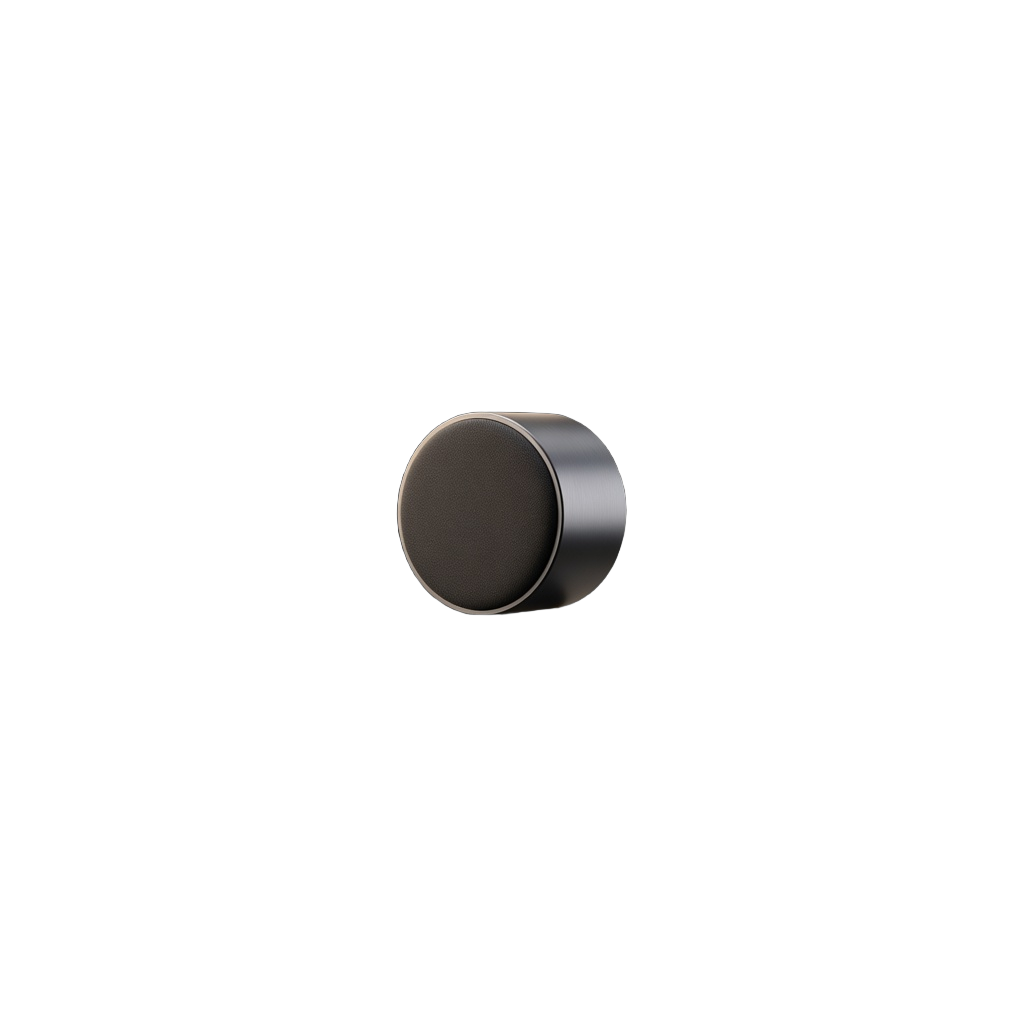
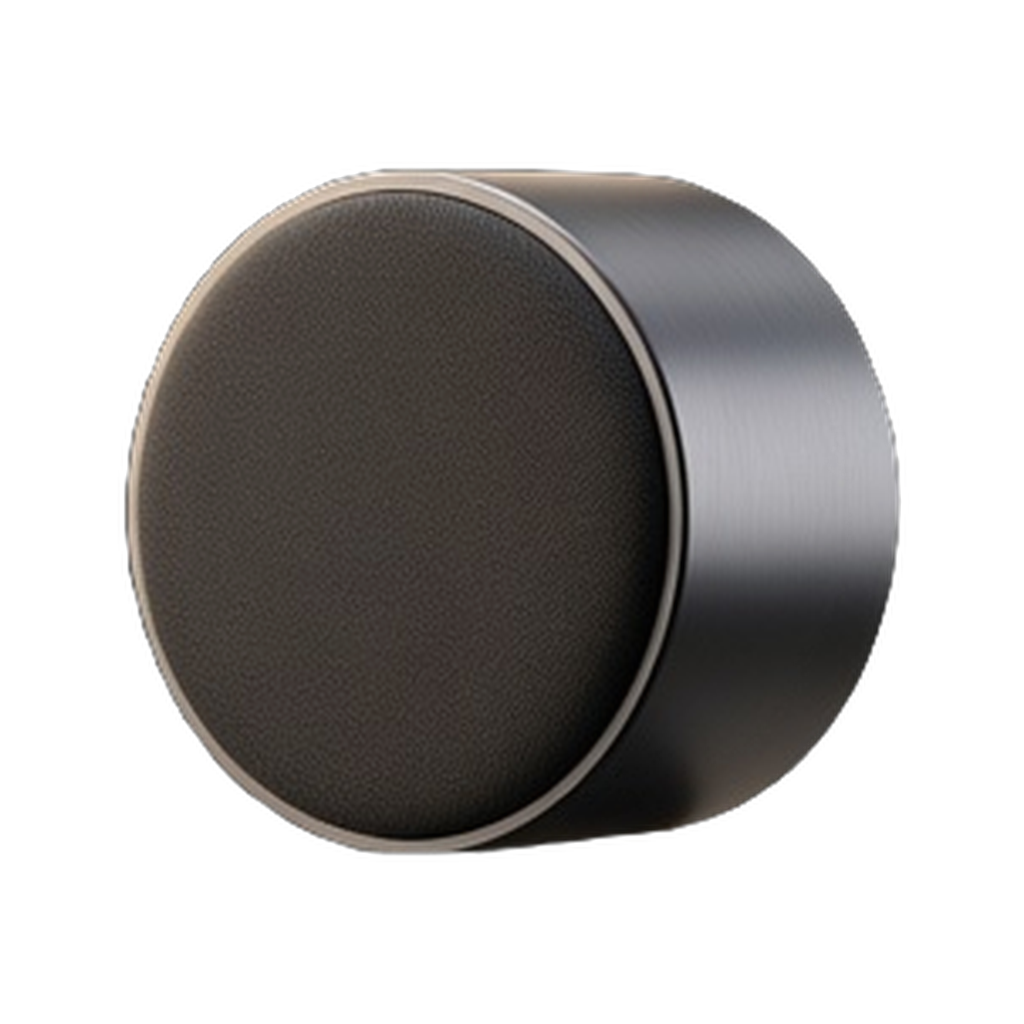
Enlarge archive focus and deepen Colton-style lens bend
Scale the centered saved item much larger, strengthen fisheye edge distortion, and trim product cutouts so the refracting scroll reads closer to the Bencho reference.

diff --git a/GPT-App Ver/src/screens/Archive.tsx b/GPT-App Ver/src/screens/Archive.tsx
@@ -21,8 +21,10 @@ import { ArchiveObject } from '../components/ArchiveObject';
 import { ItemArtwork } from '../components/ItemArtwork';
 import { Icon, Sheet, T, tap } from '../components/ui';
 
-const step = 140,
-  tile = 112;
+/** Colton lens-scroll approximation: tall center focus, fisheye bend at edges. */
+const step = 200;
+const tile = 128;
+const focusScale = 2.72;
 export default function Archive() {
   const { state, dispatch, openNudge } = useStore();
   const insets = useSafeAreaInsets();
@@ -39,6 +41,8 @@ export default function Archive() {
   const [reduce, setReduce] = useState(false);
   const scroll = useRef<ScrollView>(null);
   const [offset] = useState(() => new Animated.Value(0));
+  const labelClearance = Math.min(118, Math.max(72, (tile * focusScale) / 2 + 18));
+  const sideWidth = Math.max(64, Math.min(96, width / 2 - labelClearance - 8));
   useEffect(() => {
     let active = true;
     AccessibilityInfo.isReduceMotionEnabled().then((v) => {
@@ -118,12 +122,13 @@ export default function Archive() {
               })}
             >
               {items.map((item, index) => {
+                const half = Math.max(step * 1.15, viewport * 0.48);
                 const range = [
-                  index * step - Math.max(step + 1, viewport / 2),
-                  index * step - step,
+                  index * step - half,
+                  index * step - step * 0.55,
                   index * step,
-                  index * step + step,
-                  index * step + Math.max(step + 1, viewport / 2),
+                  index * step + step * 0.55,
+                  index * step + half,
                 ];
                 const interpolate = (outputRange: number[]) =>
                   offset.interpolate({ inputRange: range, outputRange, extrapolate: 'clamp' });
@@ -132,26 +137,32 @@ export default function Archive() {
                     <Animated.View
                       testID={`archive-card-${item.id}`}
                       style={{
-                        opacity: reduce ? 1 : interpolate([0.45, 0.9, 1, 0.9, 0.45]),
+                        zIndex: selected === index ? 4 : 1,
+                        opacity: reduce ? 1 : interpolate([0.22, 0.72, 1, 0.72, 0.22]),
                         transform: reduce
                           ? []
                           : [
-                              { perspective: 450 },
+                              { perspective: 980 },
                               {
                                 rotateX: offset.interpolate({
                                   inputRange: range,
-                                  outputRange: ['-48deg', '-9deg', '0deg', '9deg', '48deg'],
+                                  outputRange: ['-72deg', '-28deg', '0deg', '28deg', '72deg'],
                                   extrapolate: 'clamp',
                                 }),
                               },
-                              { scaleX: interpolate([1.65, 1, 1.45, 1, 1.65]) },
-                              { scaleY: interpolate([1.1, 0.96, 1.45, 0.96, 1.1]) },
+                              // Fisheye: edges stretch wide + squash tall; center is much larger + flat.
+                              {
+                                scaleX: interpolate([2.55, 0.95, focusScale, 0.95, 2.55]),
+                              },
+                              {
+                                scaleY: interpolate([0.34, 0.72, focusScale, 0.72, 0.34]),
+                              },
                             ],
                       }}
                     >
                       <ArchiveObject
                         name={item.name}
-                        size={tile}
+                        size={reduce && selected === index ? Math.round(tile * 1.55) : tile}
                         reduce={reduce}
                         label={`${item.name.toLowerCase()}, ${money(item.amount)}, saved ${savedDate(item.savedAt)}, from ${savedSource(item)}`}
                         onPress={() => {
@@ -164,7 +175,13 @@ export default function Archive() {
                       <>
                         <View
                           pointerEvents="none"
-                          style={[s.date, { width: Math.min(78, width / 2 - 96) }]}
+                          style={[
+                            s.date,
+                            {
+                              width: sideWidth,
+                              marginRight: labelClearance,
+                            },
+                          ]}
                         >
                           <T
                             variant="mono"
@@ -190,19 +207,25 @@ export default function Archive() {
                         </View>
                         <View
                           pointerEvents="none"
-                          style={[s.label, { width: Math.min(88, width / 2 - 96) }]}
+                          style={[
+                            s.label,
+                            {
+                              width: sideWidth,
+                              marginLeft: labelClearance,
+                            },
+                          ]}
                         >
                           <T
                             variant="title"
                             color={colors.text}
-                            style={{ fontSize: width < 360 ? 14 : 17, lineHeight: 21 }}
+                            style={{ fontSize: width < 360 ? 15 : 19, lineHeight: 23 }}
                           >
                             {item.name}
                           </T>
                           <T
                             variant="small"
                             color={palettes[state.hue].body}
-                            style={{ marginTop: 6, fontSize: 11 }}
+                            style={{ marginTop: 6, fontSize: 12 }}
                           >
                             {money(item.amount)}
                           </T>
@@ -215,15 +238,38 @@ export default function Archive() {
             </Animated.ScrollView>
             {!reduce && (
               <>
-                <LinearGradient
+                {/* Soft circular lens falloff at the extremes — not a mid-frame halo. */}
+                <View
                   pointerEvents="none"
-                  colors={[colors.bg, colors.bg + '00']}
-                  style={[s.fade, { top: 0 }]}
+                  style={[
+                    s.lensGlow,
+                    {
+                      top: -Math.max(160, viewport * 0.42),
+                      opacity: 0.55,
+                    },
+                  ]}
+                />
+                <View
+                  pointerEvents="none"
+                  style={[
+                    s.lensGlow,
+                    {
+                      bottom: -Math.max(160, viewport * 0.42),
+                      opacity: 0.55,
+                    },
+                  ]}
                 />
                 <LinearGradient
                   pointerEvents="none"
-                  colors={[colors.bg + '00', colors.bg]}
-                  style={[s.fade, { bottom: 0 }]}
+                  colors={[colors.bg, colors.bg + 'E6', colors.bg + '00']}
+                  locations={[0, 0.4, 1]}
+                  style={[s.fade, { top: 0, height: Math.max(110, viewport * 0.28) }]}
+                />
+                <LinearGradient
+                  pointerEvents="none"
+                  colors={[colors.bg + '00', colors.bg + 'E6', colors.bg]}
+                  locations={[0, 0.6, 1]}
+                  style={[s.fade, { bottom: 0, height: Math.max(110, viewport * 0.28) }]}
                 />
               </>
             )}
@@ -316,8 +362,13 @@ const s = StyleSheet.create({
   },
   empty: { flex: 1, alignItems: 'center', justifyContent: 'center', paddingHorizontal: 28 },
   preview: { padding: 18, marginTop: 22 },
-  lens: { flex: 1, overflow: 'hidden', marginTop: 20 },
-  row: { height: step, alignItems: 'center', justifyContent: 'center' },
+  lens: { flex: 1, overflow: 'hidden', marginTop: 8 },
+  row: {
+    height: step,
+    alignItems: 'center',
+    justifyContent: 'center',
+    overflow: 'visible',
+  },
   card: {
     width: tile,
     height: tile,
@@ -327,12 +378,19 @@ const s = StyleSheet.create({
   date: {
     position: 'absolute',
     right: '50%',
-    marginRight: 84,
-    width: 78,
     alignItems: 'flex-end',
+    zIndex: 5,
   },
-  label: { position: 'absolute', left: '50%', marginLeft: 84, width: 88 },
-  fade: { position: 'absolute', left: 0, right: 0, height: 55 },
+  label: { position: 'absolute', left: '50%', zIndex: 5 },
+  fade: { position: 'absolute', left: 0, right: 0 },
+  lensGlow: {
+    position: 'absolute',
+    alignSelf: 'center',
+    width: '140%',
+    aspectRatio: 1,
+    borderRadius: 9999,
+    backgroundColor: '#C45A2A18',
+  },
   footer: { flexDirection: 'row', justifyContent: 'center', alignItems: 'center', gap: 14 },
   arrow: { width: 44, height: 44, alignItems: 'center', justifyContent: 'center' },
   bottom: { alignItems: 'center', padding: 8 },

diff --git a/GPT-App Ver/src/components/ArchiveObject.tsx b/GPT-App Ver/src/components/ArchiveObject.tsx
@@ -22,7 +22,8 @@ export function ArchiveObject({
   const active = hovered || focused || pressed;
   useEffect(() => {
     const motion = Animated.timing(scale, {
-      toValue: active ? 1.24 : 1,
+      // Keep hover zoom subtle — Archive already magnifies the focused card heavily.
+      toValue: active ? 1.06 : 1,
       duration: reduce ? 0 : 240,
       easing: Easing.out(Easing.cubic),
       useNativeDriver: Platform.OS !== 'web',

diff --git a/design-system/snuff/README.md b/design-system/snuff/README.md
@@ -76,7 +76,7 @@ The friend path previews a generic supportive check-in without purchase details.
 
 Archive is the fourth navigation destination (home / social / archive / profile). See `previews/snuff-archive-objects.png` for the labeled sample collection and `previews/snuff-save-for-later.png` for the popup action.
 
-Reference: [Colton Tollett’s refracting scroll, via Bencho](https://bencho.dev/finds/colton-lens-scroll). The app uses Snuff’s dark design tokens with the reference’s centered transparent-object column, focused side labels, and edge bending using perspective/scale interpolation rather than the original optical shader. Sample collection art uses consistent studio placeholders on black (`GPT-App Ver/assets/archive/`, mapped in `src/design/archive-assets.ts`); unknown items still fall back to the local vector `ItemArtwork` illustrations. Shared tokens: `colors.bg`, `colors.surface`, `colors.text`, and `colors.secondary`, with the selected flame palette for price; artwork 112 points, row 140 points; focused objects scale to 145% with gentler edge distortion. Reduced motion keeps cards flat.
+Reference: [Colton Tollett’s refracting scroll, via Bencho](https://bencho.dev/finds/colton-lens-scroll). The app uses Snuff’s dark design tokens with the reference’s centered transparent-object column, focused side labels, and edge bending using perspective/scale interpolation rather than the original optical shader. Sample collection art uses transparent Grok Imagine cutouts (`GPT-App Ver/assets/archive/`, mapped in `src/design/archive-assets.ts`); unknown items still fall back to the local vector `ItemArtwork` illustrations. Shared tokens: `colors.bg`, `colors.surface`, `colors.text`, and `colors.secondary`, with the selected flame palette for price; artwork 128 points, row 200 points; focused objects scale to ~272% while edges fisheye-bend (wide + squash + rotateX). Soft ember glows sit at the lens extremes with taller fades. Reduced motion keeps cards flat.
 
 Reusable files: `../../GPT-App Ver/src/screens/Archive.tsx`, `../../GPT-App Ver/src/components/ItemArtwork.tsx`, and `../../GPT-App Ver/src/state/archive.ts`. Save-for-later preserves name, amount, and original saved timestamp locally without incrementing savings or pauses. Duplicate saves retain the original date; archived items reopen their decision. Every reload replenishes six demo archive items by stable ID, retaining existing items without duplicating samples. No merchant URL or real product-image ingestion is connected. Native notification categories also expose the save action; native device delivery still requires device testing.
 
